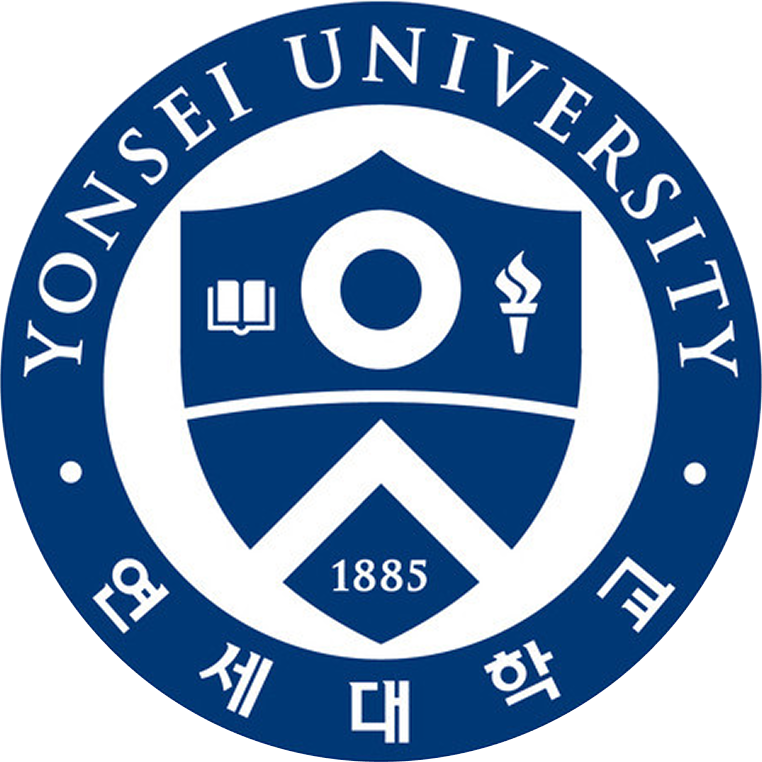
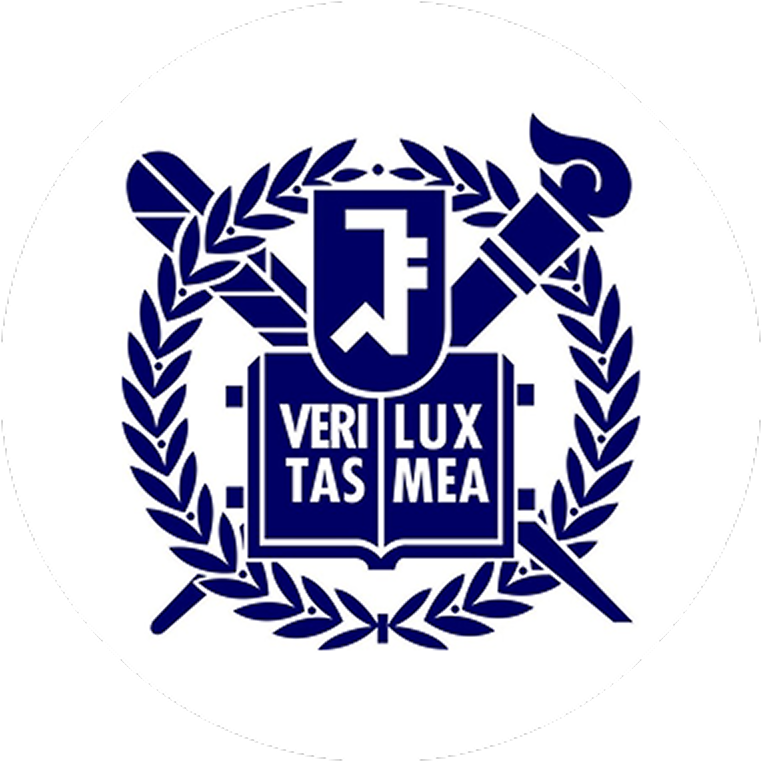
chore: 더미데이터2

diff --git a/app/community/_component/Info.tsx b/app/community/_component/Info.tsx
@@ -21,7 +21,49 @@ export default function Info() {
 
   const getData = async () => {
     const data = await getRank(rankStandard);
-    setData(data);
+    console.log(data);
+    setData([
+      {
+        choice_cnt: 9,
+        participant_count: 6,
+        ranking: 1,
+        rate: 10,
+        university_id: 0,
+        university_name: '서울대학교',
+      },
+      {
+        choice_cnt: 16,
+        participant_count: 6,
+        ranking: 2,
+        rate: 10,
+        university_id: 1,
+        university_name: '연세대학교',
+      },
+      {
+        choice_cnt: 15,
+        participant_count: 6,
+        ranking: 3,
+        rate: 10,
+        university_id: 2,
+        university_name: '국민대학교',
+      },
+      {
+        choice_cnt: 17,
+        participant_count: 6,
+        ranking: 4,
+        rate: 10,
+        university_id: 3,
+        university_name: '동국대학교',
+      },
+      {
+        choice_cnt: 10,
+        participant_count: 6,
+        ranking: 5,
+        rate: 10,
+        university_id: 4,
+        university_name: '성균관대학교',
+      },
+    ]);
   };
 
   return (

diff --git a/app/guestMain/_components/Page5/index.tsx b/app/guestMain/_components/Page5/index.tsx
@@ -20,7 +20,49 @@ export default function Page5() {
 
   const getData = async () => {
     const data = await getRank('weekly');
-    setData(data);
+    console.log(data);
+    setData([
+      {
+        choice_cnt: 9,
+        participant_count: 6,
+        ranking: 1,
+        rate: 10,
+        university_id: 0,
+        university_name: '서울대학교',
+      },
+      {
+        choice_cnt: 16,
+        participant_count: 6,
+        ranking: 2,
+        rate: 10,
+        university_id: 1,
+        university_name: '연세대학교',
+      },
+      {
+        choice_cnt: 15,
+        participant_count: 6,
+        ranking: 3,
+        rate: 10,
+        university_id: 2,
+        university_name: '국민대학교',
+      },
+      {
+        choice_cnt: 17,
+        participant_count: 6,
+        ranking: 4,
+        rate: 10,
+        university_id: 3,
+        university_name: '동국대학교',
+      },
+      {
+        choice_cnt: 10,
+        participant_count: 6,
+        ranking: 5,
+        rate: 10,
+        university_id: 4,
+        university_name: '성균관대학교',
+      },
+    ]);
   };
 
   return (

diff --git a/components/ranking/Slider.tsx b/components/ranking/Slider.tsx
@@ -100,7 +100,7 @@ export default function CircularCarousel({
                   <div className="w-[83%] overflow-hidden aspect-[1/1] bg-page5roundbg border border-white rounded-full flex items-center justify-center">
                     <div className="w-[82%] overflow-hidden aspect-[1/1] rounded-full bg-white relative">
                       <Image
-                        src={`/images/main/univ_${index}.png`}
+                        src={`/images/main/univ_${univ?.university_id}.png`}
                         alt="univ logo"
                         fill
                       />
@@ -111,7 +111,7 @@ export default function CircularCarousel({
                 <div className="w-full h-full overflow-hidden rounded-full bg-gradient-to-b from-white to-main flex items-center justify-center">
                   <div className="w-[80%] overflow-hidden aspect-[1/1] relative">
                     <Image
-                      src={`/images/main/univ_${index}.png`}
+                      src={`/images/main/univ_${univ?.university_id}.png`}
                       alt="univ logo"
                       fill
                     />

diff --git a/app/community/[univId]/page.tsx b/app/community/[univId]/page.tsx
@@ -18,7 +18,7 @@ type univDetailType = {
 };
 
 export default function Page() {
-  const [data, setData] = useState<univDetailType>(null);
+  const [data, setData] = useState<univDetailType | null>(null);
   const {univId} = useParams<{univId: string}>();
 
   useEffect(() => {
@@ -41,14 +41,15 @@ export default function Page() {
     // fetchData();
 
     setData({
-      university_id: 0,
-      university_name: '서울대학교',
-      rate: 1,
-      ranking: 1,
-      participant_count: 14,
       question_cnt: 19,
       answer_cnt: 3,
-      choice_cnt: 5,
+
+      choice_cnt: 9,
+      participant_count: 6,
+      ranking: 1,
+      rate: 10,
+      university_id: 0,
+      university_name: '서울대학교',
     });
   }, [univId]);
 
